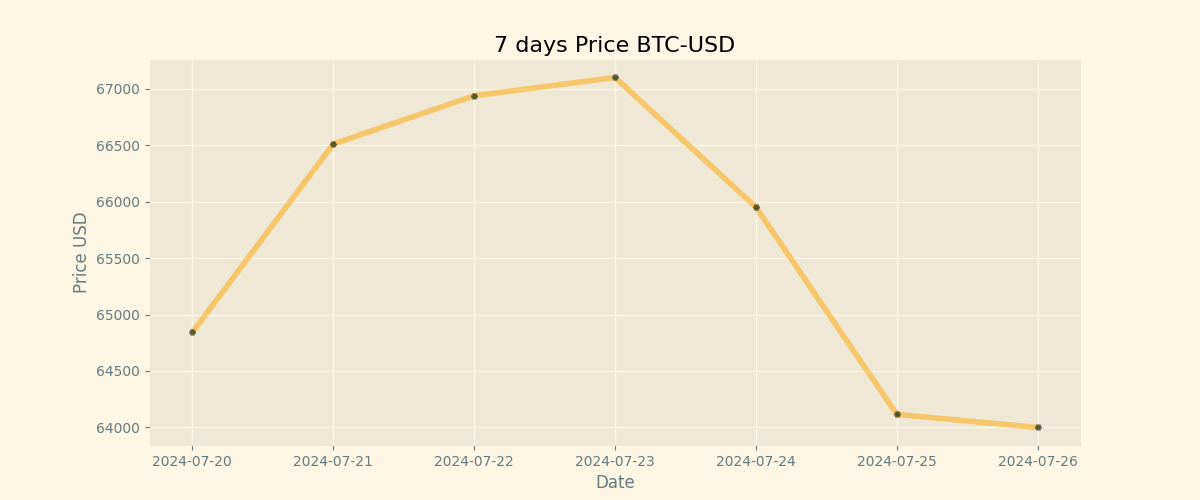
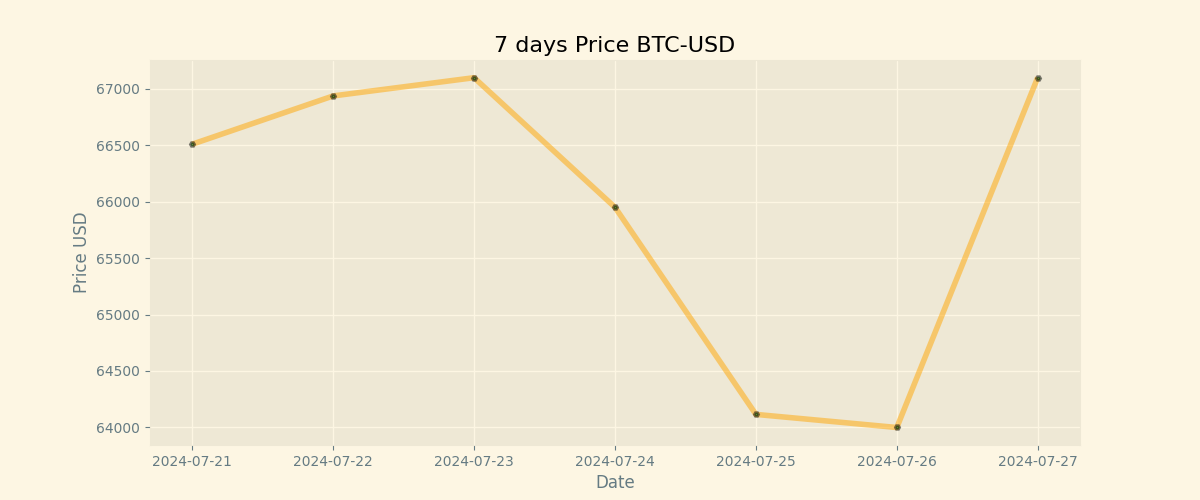
Duty Updates 2024-07-27

diff --git a/README.md b/README.md
@@ -9,8 +9,8 @@
 
 | Currency | Price           |
 | -------- | --------------- |
-| **BTC**  | **$ 63999.0** |
-| **ETH**  | **$ 3187.71** |
+| **BTC**  | **$ 67101.63** |
+| **ETH**  | **$ 3265.0** |
 
 ## BTC chart
 
